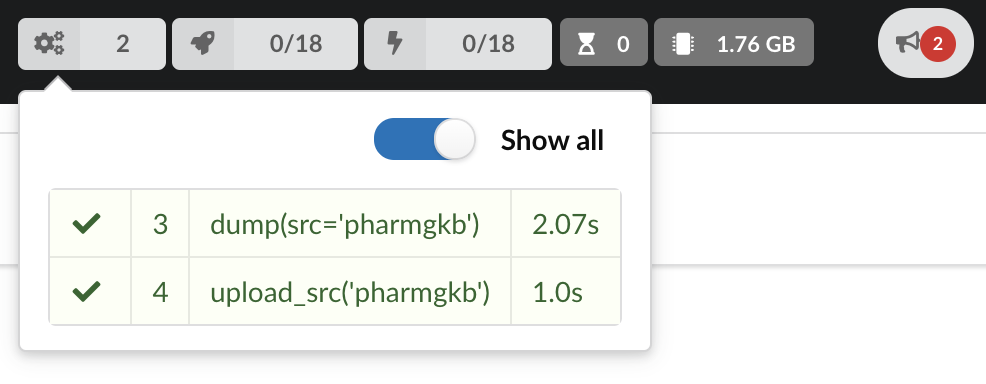
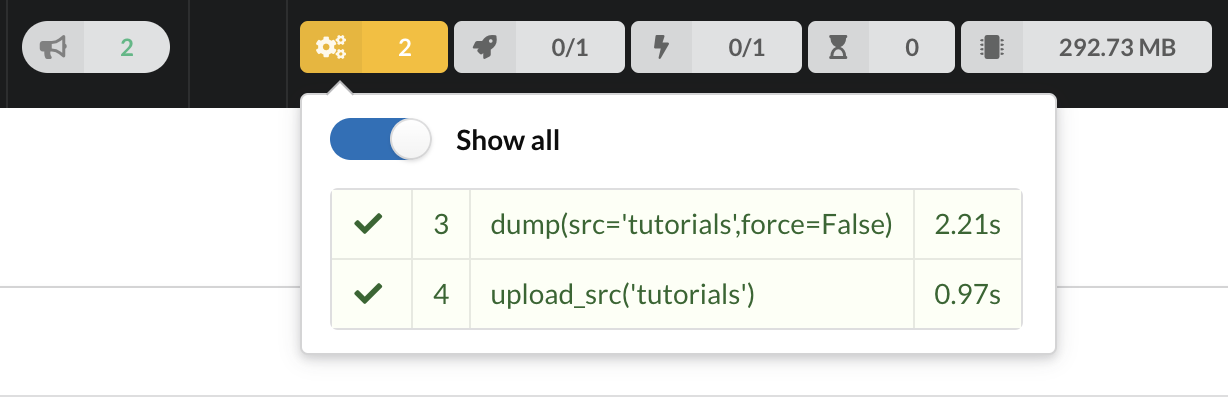
updated pngs up to before 4.5 Build

diff --git a/docs/tutorial/studio_tutorial.rst b/docs/tutorial/studio_tutorial.rst
@@ -49,7 +49,7 @@ This will prevent your Docker from crashing if you are running a large datasourc
 3. Installation
 ============
 
-**BioThings Studio** is available as a docker-compose file at our `github repository <https://github.com/biothings/biothings_docker/>`_.:
+**BioThings Studio** is available as a docker-compose file at our `github repository <https://github.com/biothings/biothings_docker/>`_.
 Clone the repository and go to the ``docker-compose`` branch.
 
 A **BioThings Studio** instance exposes several services on different ports:
@@ -113,7 +113,7 @@ The last two files will be used in the second part of this tutorial when we'll a
 .. _`occurrences.zip`: https://s3.pgkb.org/data/occurrences.zip
 
 These files will be downloaded by the **Hub** when we trigger the dumper. These files will go into a folder named ``data_folder`` by default.
-This will be explained in more detail in the `Data plugin <studio.html#data-plugin>`_ section.
+This will be explained in more detail in the `Data Plugin <studio.html#id1>`_ section.
 
 4.2. Parser
 ^^^^^^^^^^^
@@ -303,7 +303,7 @@ Once you reconnect, you will have to do a hard refresh on your webpage, for exam
 Since we fetch source code from branch ``master``, which doesn't contain any manifest file. We need to switch to another branch (this tutorial is organized using branches,
 and also it's a perfect opportunity to learn how to use a specific branch/commit using **BioThings Studio**...)
 
-Let's click on ``pharmgkb`` link, then |plugin|. In the textbox on the right, enter ``pharmgkb_v1`` then click on ``Update``.
+Let's click on ``tutorials`` link, then |plugin|. In the textbox on the right, enter ``pharmgkb_v1`` then click on ``Update``.
 
 .. |plugin| image:: ../_static/plugin.png
    :width: 70px
@@ -348,7 +348,7 @@ we've run 3 commands to register the plugin, dump the data and upload the JSON d
 .. image:: ../_static/allcommands.png
    :width: 450px
 
-We also have new notifications as shown by the red number on the left. Let's have a quick look:
+We also have new notifications as shown by the speakerphone icon number on the right. Let's have a quick look:
 
 .. image:: ../_static/allnotifs.png
    :width: 450px
@@ -359,7 +359,7 @@ release number, the data folder, when the last download was, how long it tooks t
 .. image:: ../_static/dumptab.png
    :width: 450px
 
-Same for the `Uploader` tab, we now have 979 documents uploaded to MongoDB. Exact number may change depending on source file that is downloaded.
+Same for the `Uploader` tab, we now have 979 documents uploaded to MongoDB. Exact number may change depending on when the source file that is downloaded.
 
 .. image:: ../_static/uploadtab.png
    :width: 450px
@@ -413,7 +413,7 @@ Since the collection is very small, inspection is fast. But... it seems like we 
 This result means documents sometimes have ``notes`` key equal to ``NaN``, and sometimes equal to a string (a splittable string, meaning there are spaces in it).
 This is a problem for ElasticSearch because it wouldn't index the data properly. And furthermore, ElasticSearch doesn't allow ``NaN`` values anyway. So we need
 to fix the parser. The fixed version is available in branch ``pharmgkb_v2`` (go back to Plugin tab, enter that branch name and update the code).
-The fix consists in `removing key/value <https://github.com/sirloon/pharmgkb/blob/pharmgkb_v2/parser.py#L24>`_ from the records, whenever a value is equal to ``NaN``.
+The fix consists in `removing key/value <https://github.com/biothings/tutorials/blob/pharmgkb_v2/parser.py#L32>`_ from the records, whenever a value is equal to ``NaN``.
 
 .. code:: python
 
@@ -456,7 +456,7 @@ moving forwared, we want to make sure the mapping is valid, let's click on |vali
 
 Everything looks fine, the last step is to "commit" the mapping, meaning we're ok to use this mapping as the official, registered mapping that will actually be used by ElasticSearch. Indeed the left side of the page is about inspected mapping, we can re-launch the
 inspection as many times as we want, without impacting active/registered mapping (this is usefull when the data structure changes). Click on
-|commit| then "OK", and you now should see the final, registered mapping on the right:
+|commit| then "YES", and you now should see the final, registered mapping on the right:
 
 .. |commit| image:: ../_static/commit.png
    :width: 75px
